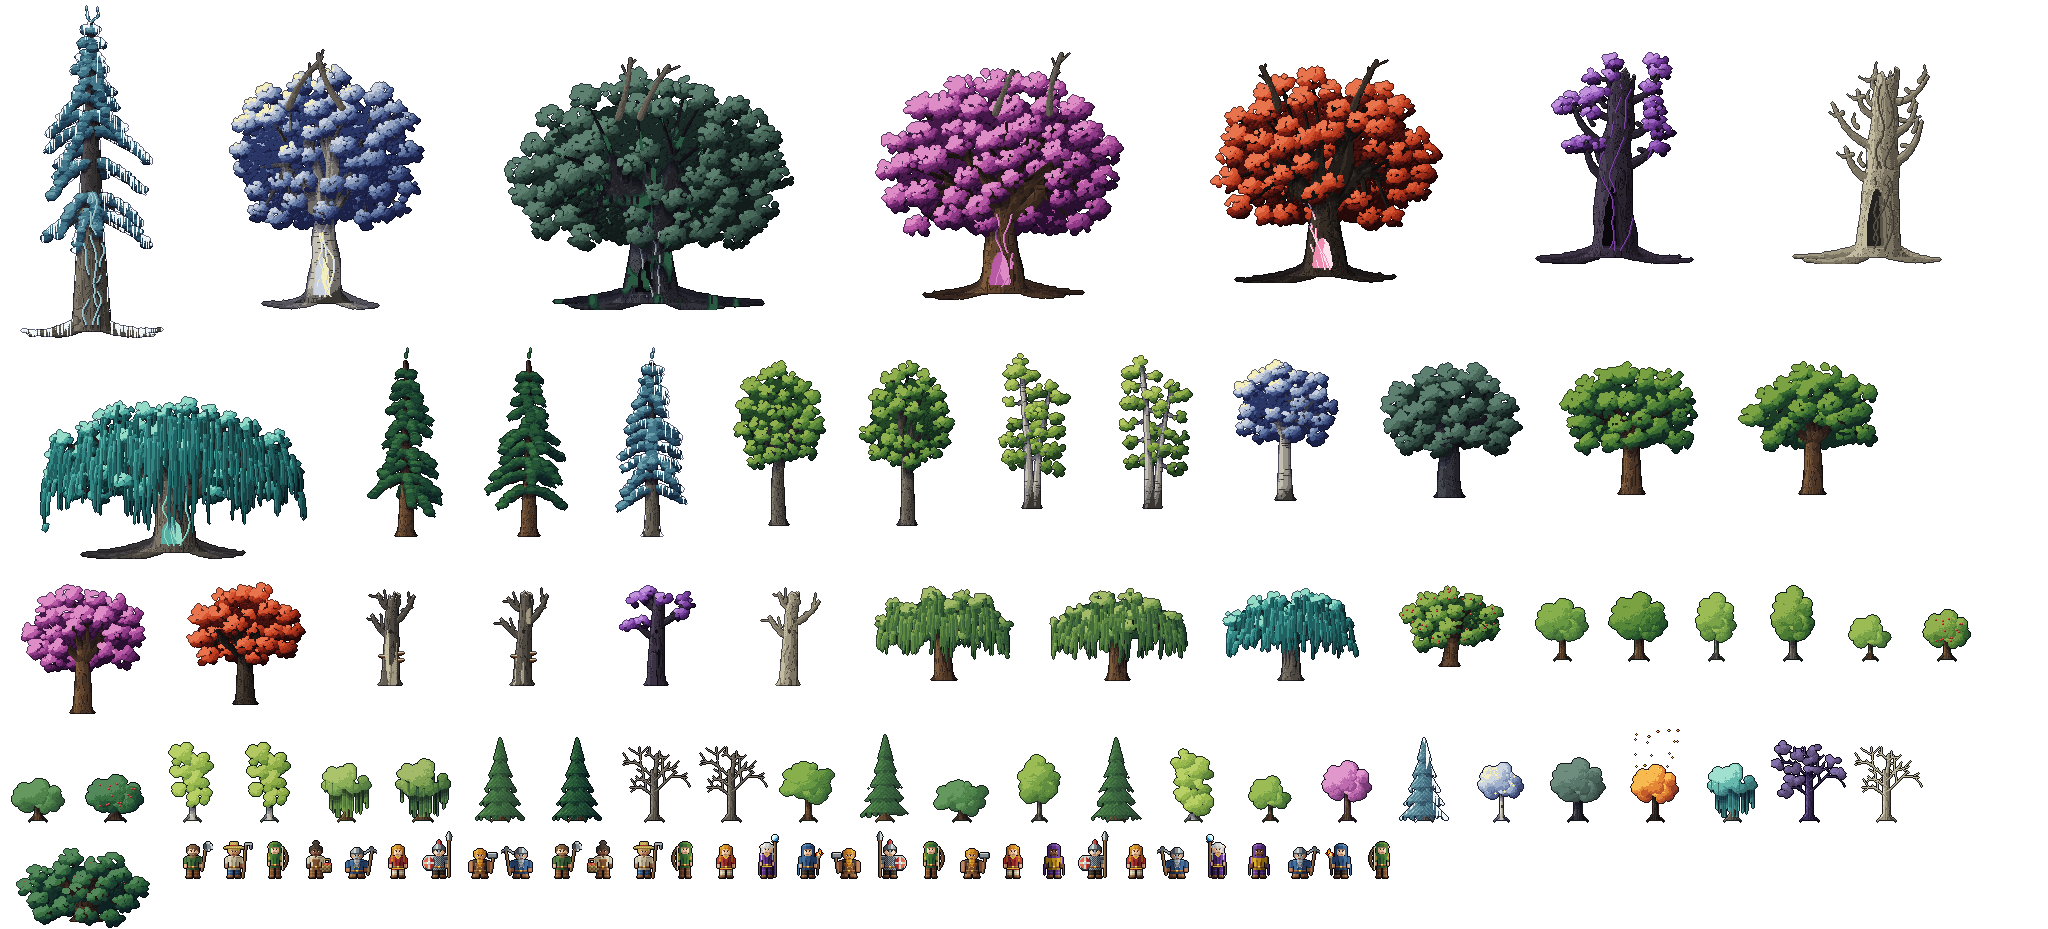
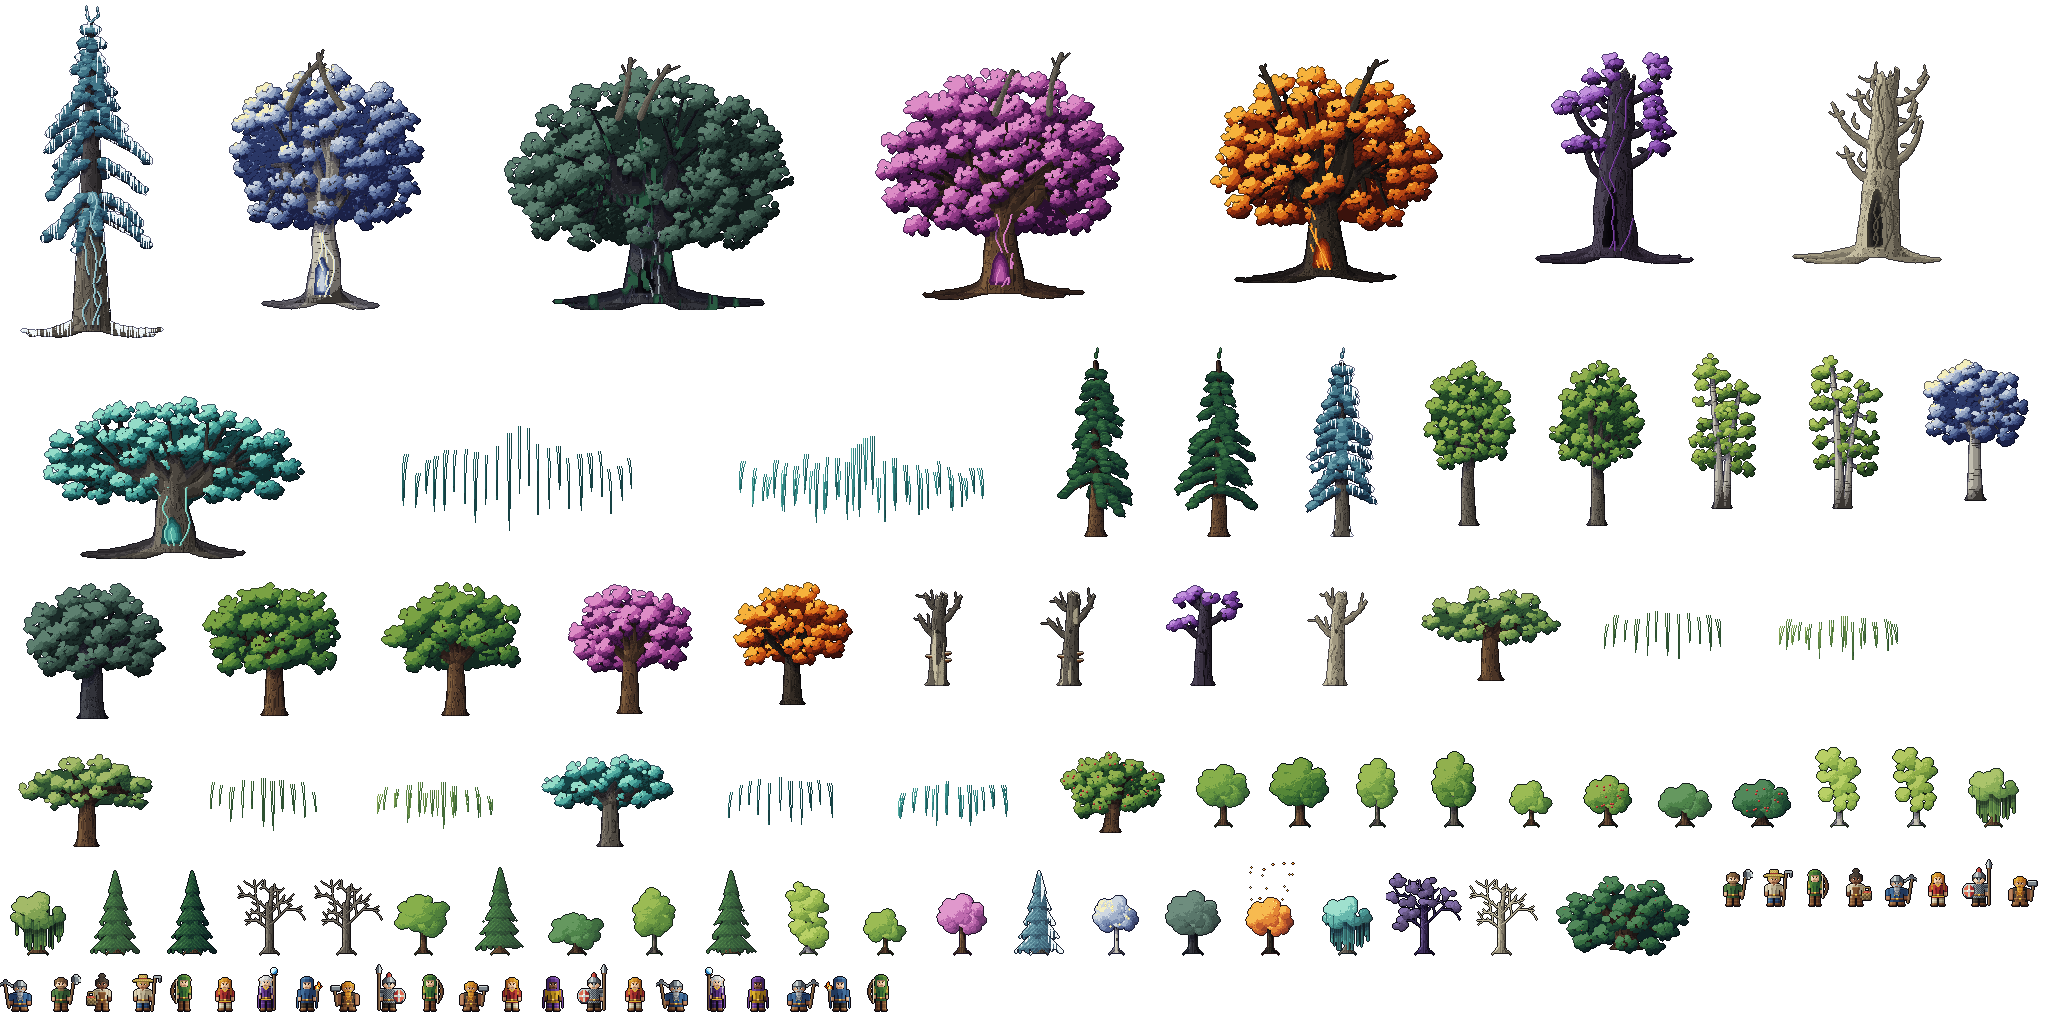
feat(mockups): living hollow light, orange emberwood, and willow curtains as swinging strand bunches
- Bake glowing elder hollows as a depth channel and light them at run time from a graded ramp that breathes, drifts and sheds motes in engine.js and fx.js.
- Grade the shaded witchwood, ironwood and bonewood hollows from deep shade to a lit inner wall and sill in probe/trees.mjs.
- Put mature and elder emberwood back on the ember palette, with an amber-cored flame, a faint warm rim and amber motes.
- Redraw willow and soulwood curtains as two to three tapering strands per bunch in back and front veil layers, with a hem rhythm and a clear crown dome.
- Swing each strand bunch as a lagged pendulum and hold every whole-pixel offset with hysteresis so rows and strands stop popping.

Claude-Session: 89d05c17-dd71-48ff-b6a9-40bf3244e810
T3-Thread: thread:delegated-task:command%3Amcp%3A06ad9ae2-9298-40c6-bc72-42ad76243ef4%3Adelegate-task%3Acc0a429d-88f2-4c59-a151-f19e36efae18

diff --git a/mockups/big-trees/engine.js b/mockups/big-trees/engine.js
@@ -3,8 +3,9 @@
   const BT = (window.BT = window.BT || {});
   const GRADE = [0.26, 0.31, 0.46];
   const LEAFY = new Uint8Array(256);
-  for (const k of [3, 4, 5, 7]) LEAFY[k] = 1;
-  const FLAME = ['#fde2ee', '#f08cb0', '#d84a78', '#a8255e', '#5a2a8a'].map(rgb);
+  for (let v = 0; v < 256; v++) LEAFY[v] = [3, 4, 5, 7].includes(v & 15) ? 1 : 0;
+  const FLAME = ['#ffd98a', '#ffb35a', '#f6873a', '#d9582c', '#9c3a3c'].map(rgb);
+  const RIM = rgb('#ffc070');
   const ORB = ['#fff6c8', '#e6d98f'].map(rgb);
 
   function rgb(h) {
@@ -27,7 +28,18 @@
     sp.edges = [];
     sp.bright = [];
     sp.leaves = [];
-    if (!a) return;
+    sp.hollowRgb = a?.hollow ? a.hollow.map(rgb) : null;
+    if (!a) {
+      const list = [];
+      for (let y = 0; y < sp.h; y++)
+        for (let x = 0; x < sp.w; x++) {
+          const i = ((sp.y + y) * S.aw + sp.x + x) * 4;
+          if (S.atlas[i + 3]) list.push(y * sp.w + x);
+        }
+      list.sort((p, q) => S.parts[((sp.y + Math.floor(p / sp.w)) * S.aw + sp.x + (p % sp.w)) * 4 + 1] - S.parts[((sp.y + Math.floor(q / sp.w)) * S.aw + sp.x + (q % sp.w)) * 4 + 1]);
+      sp.list = Int32Array.from(list);
+      return;
+    }
     const at = (x, y) => ((sp.y + y) * S.aw + sp.x + x) * 4;
     for (let y = 0; y < sp.h; y++)
       for (let x = 0; x < sp.w; x++) {
@@ -35,7 +47,7 @@
         if (!S.atlas[i + 3] || !LEAFY[S.parts[i]]) continue;
         sp.leaves.push(x, y);
         const up = y > 0 ? at(x, y - 1) : -1;
-        if (a.ember && S.parts[i] === 3 && (up < 0 || !S.atlas[up + 3])) sp.edges.push(x, y);
+        if (a.ember && (S.parts[i] & 15) === 3 && (up < 0 || !S.atlas[up + 3])) sp.edges.push(x, y);
         const lum = S.atlas[i] * 0.3 + S.atlas[i + 1] * 0.59 + S.atlas[i + 2] * 0.11;
         if (lum > 175) sp.bright.push(x, y);
       }
@@ -56,32 +68,41 @@
     return S;
   };
 
-  function motion(it, sp, W, t, cache) {
+  function settle(prev, v) {
+    return Math.abs(v - prev) > 0.62 ? Math.round(v) : prev;
+  }
+
+  function motion(it, sp, W, t, cache, mem) {
     const a = sp.a;
     const h = sp.h;
-    const key = sp;
     if (!a || !W.scale) {
-      let m = cache.get(key);
+      let m = cache.get(sp);
       if (!m) {
         const zero = new Int16Array(h + 1);
-        m = { L: zero, B: zero, T: zero, flut: new Int8Array(256), bob: new Int8Array(256), stream: null, reach: 1 };
-        cache.set(key, m);
+        m = { L: zero, B: zero, T: zero, S: zero, flut: new Int8Array(256), bob: new Int8Array(256), reach: 1 };
+        cache.set(sp, m);
       }
+      mem.delete(it);
       return m;
+    }
+    let keep = mem.get(it);
+    if (!keep || keep.L.length !== h + 1) {
+      keep = { L: new Int16Array(h + 1), B: new Int16Array(h + 1), T: new Int16Array(h + 1), S: new Int16Array(h + 1), veil: new Int8Array(1024) };
+      mem.set(it, keep);
     }
     const lean = W.lean(it.x, it.b, a.sway, t);
     const lag = W.lean(it.x, it.b, a.sway, t - 0.45) * 0.85;
     const trunkW = W.level >= 3 ? 0.45 : 0.06;
-    const L = new Int16Array(h + 1),
-      B = new Int16Array(h + 1),
-      T = new Int16Array(h + 1);
+    const { L, B, T, S } = keep;
     let reach = 2;
     for (let r = 0; r <= h; r++) {
       const rise = Math.max(0, Math.min(1, (h - r + (r % 3)) / h)),
-        f = rise * Math.sqrt(rise);
-      L[r] = Math.floor(lean * f + 0.5);
-      B[r] = Math.floor(lag * f + 0.5);
-      T[r] = Math.floor(lean * trunkW * f + 0.5);
+        f = rise * Math.sqrt(rise),
+        smooth = Math.max(0, Math.min(1, (h - r) / h));
+      L[r] = settle(L[r], lean * f);
+      B[r] = settle(B[r], lag * f);
+      T[r] = settle(T[r], lean * trunkW * f);
+      S[r] = settle(S[r], lean * smooth * Math.sqrt(smooth));
       reach = Math.max(reach, Math.abs(L[r]) + 2);
     }
     const thr = [2, 0.94, 0.74, 0.5][W.level],
@@ -95,23 +116,26 @@
       const b = Math.sin(t * 2.3 + (p / 255) * 6.283 + it.x * 0.01);
       bob[p] = b > bthr ? 1 : 0;
     }
-    let stream = null;
-    if (a.weep) {
-      const top = a.box[1] + Math.round((a.box[3] - a.box[1]) * 0.3),
-        g = W.gust(it.x, it.b, t),
-        push = W.scale * (1 + 2.4 * g);
-      stream = (row, x) => {
-        if (row <= top) return 0;
-        const hang = Math.min(1, (row - top) / Math.max(1, h - top));
-        return Math.round(hang * push + hang * Math.sin(t * 2.4 + x * 0.45 + row * 0.04) * W.scale * 0.9);
-      };
-      reach += Math.ceil(push + W.scale) + 1;
+    if (sp.veil) {
+      const g = W.gust(it.x, it.b, t),
+        push = W.scale * (1.1 + 2.2 * g),
+        amp = W.scale * 1.1;
+      for (let bunch = 0; bunch < 64; bunch++) {
+        const phi = bunch * 2.39 + it.x * 0.01;
+        for (let hh = 0; hh < 16; hh++) {
+          const f = (hh + 0.5) / 16,
+            v = push * Math.pow(f, 1.3) + amp * Math.sin((t - f * 0.8) * 1.1 + phi) * Math.pow(f, 1.5);
+          keep.veil[bunch * 16 + hh] = settle(keep.veil[bunch * 16 + hh], v);
+        }
+      }
+      reach += Math.ceil(push + amp) + 1;
     }
-    return { L, B, T, flut, bob, stream, reach };
+    return { L, B, T, S, flut, bob, reach, veil: keep.veil };
   }
 
   BT.renderer = (S) => {
     const cache = new Map();
+    const mem = new Map();
     const AW = S.aw,
       AD = S.atlas,
       PD = S.parts;
@@ -207,13 +231,15 @@
           fx?.spawn(it, sp, ctx, false);
           continue;
         }
-        const m = motion(it, sp, W, t, cache);
+        const m = motion(it, sp, W, t, cache, mem);
+        if (sp.veil) veil(it, S.cfg.sprites[sp.veil[0]], sp, m, ox, oy, ctx, st);
         drawSprite(it, sp, m, ox, oy, ctx, vx, vy, vw, vh, st);
+        if (sp.veil) veil(it, S.cfg.sprites[sp.veil[1]], sp, m, ox, oy, ctx, st);
         const forward = (x, y) => {
           const i = ((sp.y + y) * AW + sp.x + x) * 4;
           const ph = PD[i + 1],
-            k = PD[i];
-          return [ox + x + m.L[y] + (m.stream ? m.stream(y, x) : 0) + m.flut[ph], oy + y + (k === 5 ? m.bob[ph] : 0)];
+            k = PD[i] & 15;
+          return [ox + x + m.L[y] + m.flut[ph], oy + y + (k === 5 ? m.bob[ph] : 0)];
         };
         ctx.forward = forward;
         if (sp.a?.moon) orbs(sp, ctx, forward);
@@ -244,24 +270,24 @@
           T = m.T[ly];
         for (let lx = x0; lx < x1; lx++) {
           let src = -1;
-          const sx = lx - L - (m.stream ? m.stream(ly, lx) : 0);
+          const sx = lx - L;
           let i = at(sx, ly);
           if (i >= 0 && AD[i + 3] && LEAFY[PD[i]]) {
             const ph = PD[i + 1];
-            const j = at(sx - m.flut[ph], ly - (PD[i] === 5 ? m.bob[ph] : 0));
+            const j = at(sx - m.flut[ph], ly - ((PD[i] & 15) === 5 ? m.bob[ph] : 0));
             src = j >= 0 && AD[j + 3] && LEAFY[PD[j]] ? j : i;
           } else {
             i = at(lx - Bs, ly);
-            if (i >= 0 && AD[i + 3] && PD[i] === 2) src = i;
+            if (i >= 0 && AD[i + 3] && (PD[i] & 15) === 2) src = i;
             else {
               i = at(lx - T, ly);
-              if (i >= 0 && AD[i + 3] && !LEAFY[PD[i]] && PD[i] !== 2) src = i;
+              if (i >= 0 && AD[i + 3] && !LEAFY[PD[i]] && (PD[i] & 15) !== 2) src = i;
             }
           }
           if (src < 0) continue;
           const wx = ox + lx,
             wy = oy + ly,
-            k = PD[src];
+            k = PD[src] & 15;
           let r = AD[src],
             g = AD[src + 1],
             b = AD[src + 2],
@@ -282,14 +308,15 @@
             b *= f;
             e = Math.min(1, e * (0.6 + 0.6 * w));
           }
-          if (k === 7 && a?.soul) {
-            const s = Math.sin(t * 2.6 + PD[src + 1] * 0.11 + lx * 0.7);
-            if (s > 0.72) {
-              r = r * 0.6 + 220 * 0.4;
-              g = g * 0.6 + 255 * 0.4;
-              b = b * 0.6 + 240 * 0.4;
-              e = Math.max(e, 0.8);
-            }
+          if (k === 8 && sp.hollowRgb) {
+            const HR = sp.hollowRgb,
+              depth = PD[src + 1] / 255,
+              I = Math.max(0, Math.min(1, depth * (0.74 + 0.16 * Math.sin(t * 0.8 + it.x * 0.01) + 0.06 * Math.sin(t * 2.1 + 1)) + (BT.noise(wx * 0.21, wy * 0.09 - t * 0.35) - 0.5) * 0.4 * depth)),
+              c = HR[Math.min(HR.length - 1, Math.floor(I * (HR.length - 1) + 0.35))];
+            r = c[0];
+            g = c[1];
+            b = c[2];
+            e = Math.min(1, I * 1.15);
           }
           if (cut && LEAFY[k]) {
             let d = 1e9;
@@ -299,6 +326,43 @@
           }
           ctx.put(wx, wy, r, g, b, e, alpha);
         }
+      }
+    }
+
+    function veil(it, vsp, sp, m, ox, oy, ctx, st) {
+      const list = vsp.list,
+        t = ctx.t,
+        a = sp.a,
+        cut = st.cut === 'on' && it.cut && it.cut.length ? it.cut : null;
+      for (let n = 0; n < list.length; n++) {
+        const p = list[n],
+          x = p % vsp.w,
+          y = (p - x) / vsp.w,
+          i = ((vsp.y + y) * AW + vsp.x + x) * 4,
+          code = PD[i],
+          k = code & 15,
+          hh = code >> 4,
+          bunch = PD[i + 1] & 63,
+          wx = ox + x + m.S[y] + (m.veil ? m.veil[bunch * 16 + hh] : 0),
+          wy = oy + y;
+        let r = AD[i],
+          g = AD[i + 1],
+          b = AD[i + 2],
+          e = PD[i + 2] / 255,
+          alpha = 1;
+        if (k === 7 && a?.soul && Math.sin(t * 0.9 + bunch * 1.7 + x * 0.05) > 0.94) {
+          r = r * 0.7 + 215 * 0.3;
+          g = g * 0.7 + 250 * 0.3;
+          b = b * 0.7 + 236 * 0.3;
+          e = Math.max(e, 0.55);
+        }
+        if (cut) {
+          let d = 1e9;
+          for (const [px, py] of cut) d = Math.min(d, Math.hypot(wx - px, (wy - py) * 1.1));
+          const edge = 34 + (BT.noise(wx / 7, wy / 7) - 0.5) * 12;
+          if (d < edge) alpha = d < edge - 6 ? 0.14 : 0.14 + ((d - edge + 6) / 6) * 0.86;
+        }
+        ctx.put(wx, wy, r, g, b, e, alpha);
       }
     }
 
@@ -325,7 +389,8 @@
         const v = BT.noise(x * 0.085 + t * 0.55, y * 0.05 + t * 0.3);
         if (v < 0.46) continue;
         const [fx, fy] = forward(x, y);
-        ctx.put(fx, fy, FLAME[2][0], FLAME[2][1], FLAME[2][2], 0.7, Math.min(0.6, (v - 0.46) * 3));
+        ctx.put(fx, fy, RIM[0], RIM[1], RIM[2], 0.7, Math.min(0.55, (v - 0.46) * 3));
+        ctx.put(fx, fy + 1, RIM[0], RIM[1], RIM[2], 0.4, Math.min(0.25, (v - 0.46) * 1.5));
         const hgt = Math.floor(Math.max(0, v - 0.47) * 24 + BT.cell(x, Math.floor(t * 4)) * 1.4);
         if (!hgt) continue;
         const curl = Math.sin(t * 2.2 + x * 0.21);

diff --git a/mockups/big-trees/fx.js b/mockups/big-trees/fx.js
@@ -8,7 +8,7 @@
     glint: rgb('#ffffff'),
     glintArm: rgb('#cfe6f2'),
     apple: [rgb('#de6a52'), rgb('#9a2a2a')],
-    mote: ['#f6c2d6', '#d84a78', '#8e1f4a', '#5a2a8a'].map(rgb),
+    mote: ['#ffd98a', '#f6a04a', '#d2602e', '#8c3a40'].map(rgb),
     orb: rgb('#fff6c8'),
     orbHalo: rgb('#e6d98f'),
     wisp: ['#d0f8ec', '#94dcc8', '#56b0a4'].map(rgb),
@@ -101,6 +101,12 @@
           const [x, y] = f(sp.edges[i], sp.edges[i + 1]);
           parts.push({ k: 'mote', x, y: y - 2, vx: W.scale * 5, vy: -(7 + Math.random() * 6), age: 0, life: 3 + Math.random() * 1.5, ph: Math.random() * 6 });
         }
+      if (a.hollow && a.hollowAt)
+        for (let n = every(it, 'hollow', 0.45); n > 0; n--) {
+          const hx = it.x - sp.ax + a.hollowAt[0],
+            hy = it.b - sp.ay + a.hollowAt[1];
+          parts.push({ k: 'hmote', x: hx + (Math.random() - 0.5) * 6, y: hy + (Math.random() - 0.5) * 10, vx: (Math.random() - 0.5) * 3, vy: -3 - Math.random() * 2, age: 0, life: 3.2, ph: Math.random() * 6, col: rgb(a.hollow[a.hollow.length - 1]), dim: rgb(a.hollow[a.hollow.length - 3]) });
+        }
       if (a.soul && elder)
         for (let n = every(it, 'wisp', 0.9); n > 0; n--)
           parts.push({ k: 'wisp', x: it.x + (Math.random() - 0.5) * 12, y: it.b - sp.h * 0.12, vx: 0, vy: -5 - Math.random() * 3, age: 0, life: 5, ph: Math.random() * 6 });
@@ -162,6 +168,8 @@
           const pulse = 0.6 + 0.4 * Math.sin(t * 2 + p.ph);
           put(x, y, ...C.orb, 1, fade);
           for (const [dx, dy] of [[1, 0], [-1, 0], [0, 1], [0, -1]]) put(x + dx, y + dy, ...C.orbHalo, 0.6, 0.45 * pulse * fade);
+        } else if (p.k === 'hmote') {
+          put(x, y, ...(u < 0.5 ? p.col : p.dim), 1, fade);
         } else if (p.k === 'wisp') {
           const c = C.wisp[Math.min(2, Math.floor(u * 3))];
           put(x, y, ...c, 1, fade);
